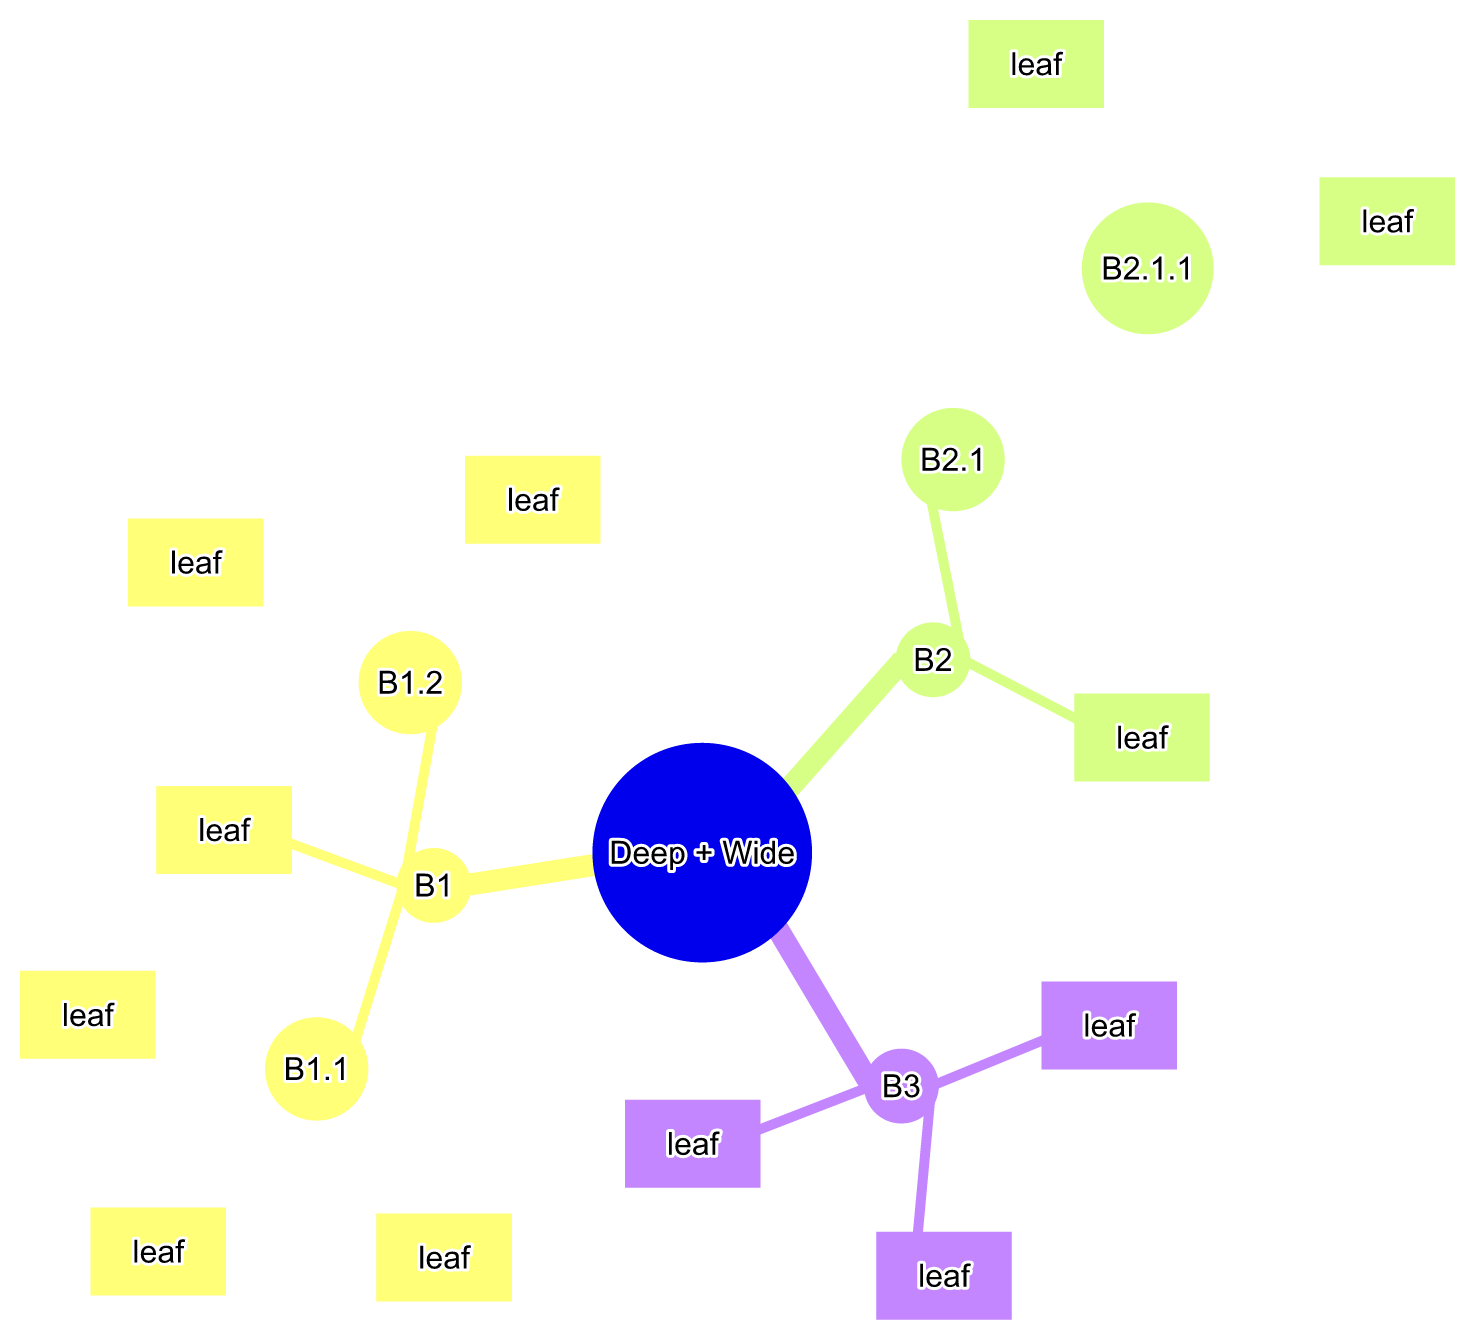
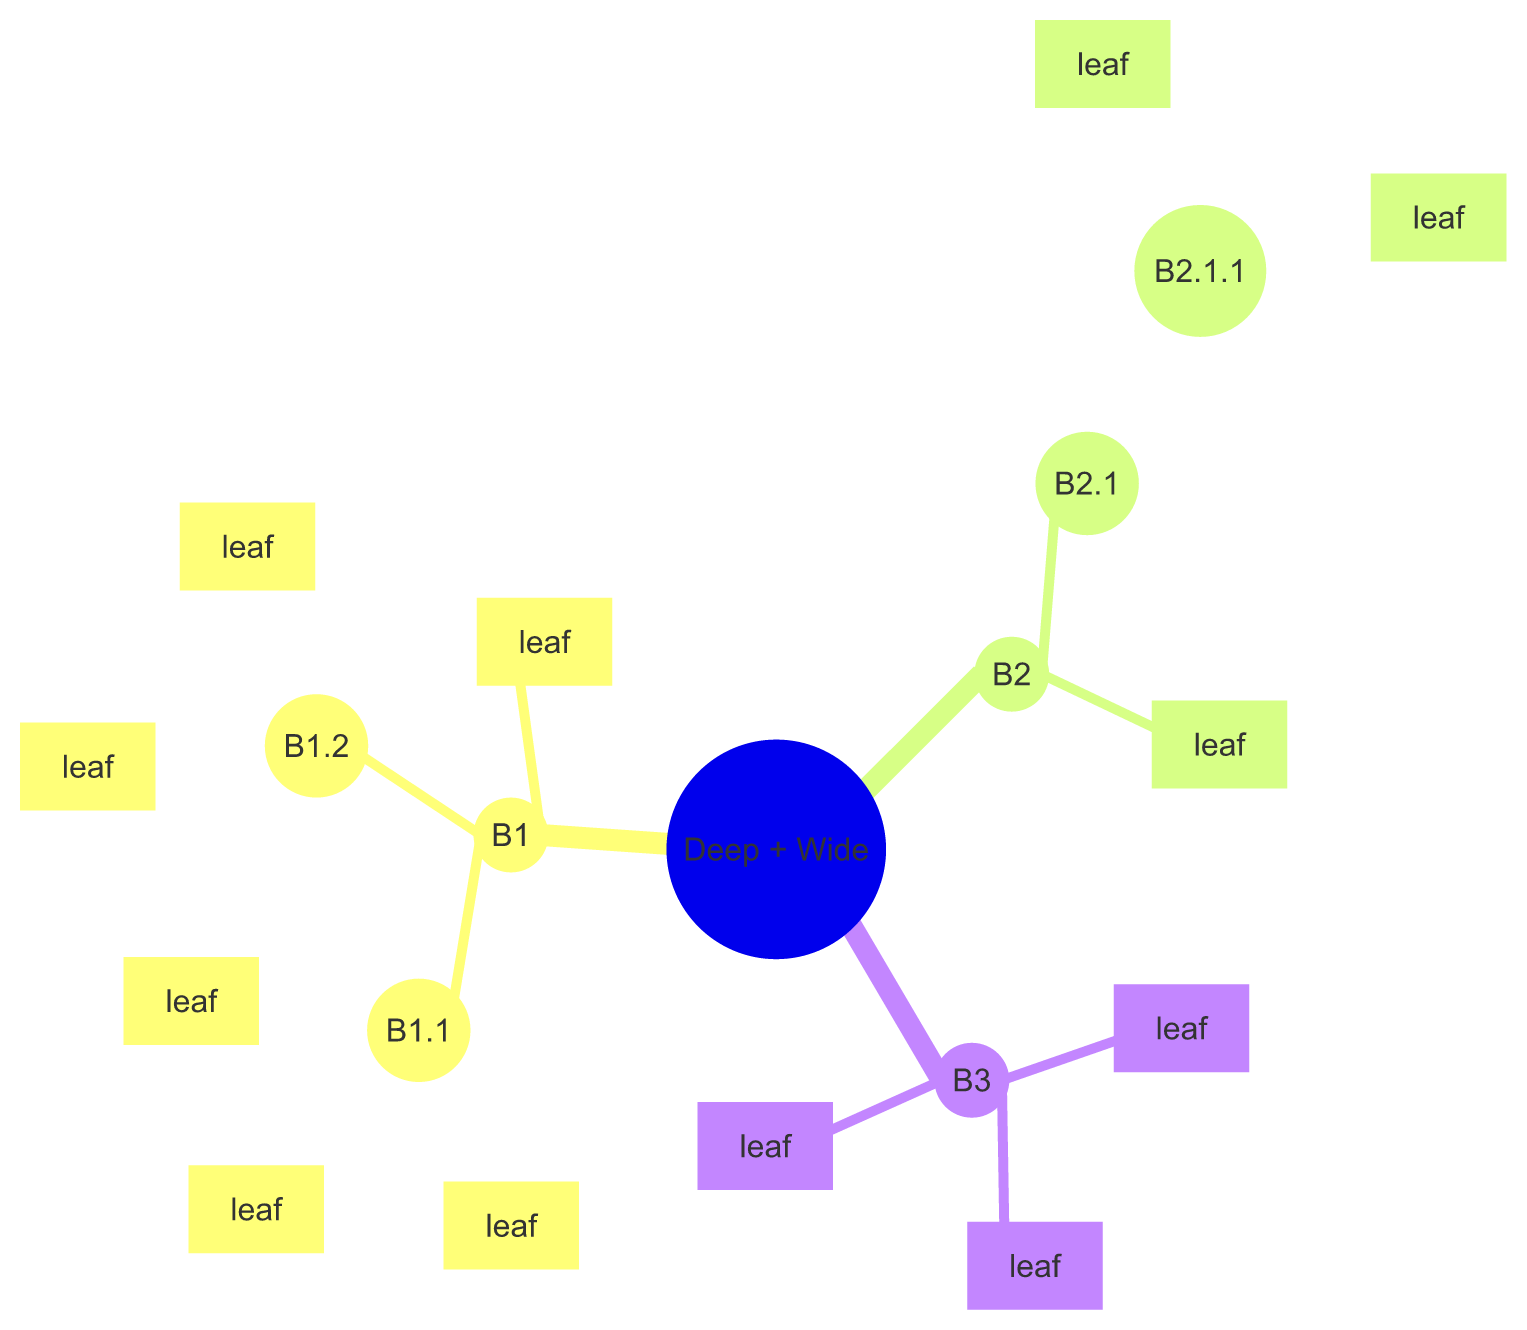
docs: refresh README showcase

diff --git a/README.md b/README.md
@@ -178,7 +178,7 @@ Each example links to an existing fixture so the README stays honest and reprodu
 ### Architecture (many groups + sparse services)
 
 <p align="center">
-  <img width="900" alt="Architecture diagram: many groups + sparse services" src="https://raw.githubusercontent.com/Latias94/merman/v0.1.0/docs/assets/showcase/architecture.png" />
+  <img width="900" alt="Architecture diagram: many groups + sparse services" src="https://raw.githubusercontent.com/Latias94/merman/main/docs/assets/showcase/architecture.png" />
 </p>
 
 Fixture: [`fixtures/architecture/stress_architecture_batch4_many_groups_sparse_services_069.mmd`](fixtures/architecture/stress_architecture_batch4_many_groups_sparse_services_069.mmd)
@@ -210,7 +210,7 @@ c:R -- L:d
 ### Mindmap (line breaks in labels)
 
 <p align="center">
-  <img width="900" alt="Mindmap diagram: label line break variants" src="https://raw.githubusercontent.com/Latias94/merman/v0.1.0/docs/assets/showcase/mindmap.png" />
+  <img width="900" alt="Mindmap diagram: label line break variants" src="https://raw.githubusercontent.com/Latias94/merman/main/docs/assets/showcase/mindmap.png" />
 </p>
 
 Fixture: [`fixtures/mindmap/stress_mindmap_br_variants_031.mmd`](fixtures/mindmap/stress_mindmap_br_variants_031.mmd)
@@ -234,7 +234,7 @@ mindmap
 ### Sankey (dense shared nodes)
 
 <p align="center">
-  <img width="900" alt="Sankey diagram: dense shared nodes" src="https://raw.githubusercontent.com/Latias94/merman/v0.1.0/docs/assets/showcase/sankey.png" />
+  <img width="900" alt="Sankey diagram: dense shared nodes" src="https://raw.githubusercontent.com/Latias94/merman/main/docs/assets/showcase/sankey.png" />
 </p>
 
 Fixture: [`fixtures/sankey/stress_sankey_batch1_dense_shared_nodes_007.mmd`](fixtures/sankey/stress_sankey_batch1_dense_shared_nodes_007.mmd)
@@ -269,7 +269,7 @@ Z,Loss,2
 ### Gantt (date math + excludes)
 
 <p align="center">
-  <img width="900" alt="Gantt diagram: date math + excludes" src="https://raw.githubusercontent.com/Latias94/merman/v0.1.0/docs/assets/showcase/gantt.png" />
+  <img width="900" alt="Gantt diagram: date math + excludes" src="https://raw.githubusercontent.com/Latias94/merman/main/docs/assets/showcase/gantt.png" />
 </p>
 
 Fixture: [`fixtures/gantt/upstream_docs_gantt_syntax_002.mmd`](fixtures/gantt/upstream_docs_gantt_syntax_002.mmd)
@@ -316,7 +316,7 @@ gantt
 
 | Architecture (dense services + cross edges) | Mindmap (deep + wide) |
 | --- | --- |
-| <img width="430" alt="Architecture diagram: dense services + cross edges" src="https://raw.githubusercontent.com/Latias94/merman/v0.1.0/docs/assets/showcase/architecture_dense.png" /><br/>Fixture: [`fixtures/architecture/stress_architecture_batch5_dense_group_services_073.mmd`](fixtures/architecture/stress_architecture_batch5_dense_group_services_073.mmd) | <img width="430" alt="Mindmap diagram: deep + wide tree" src="https://raw.githubusercontent.com/Latias94/merman/v0.1.0/docs/assets/showcase/mindmap_deep_wide.png" /><br/>Fixture: [`fixtures/mindmap/stress_deep_wide_combo_011.mmd`](fixtures/mindmap/stress_deep_wide_combo_011.mmd) |
+| <img width="430" alt="Architecture diagram: dense services + cross edges" src="https://raw.githubusercontent.com/Latias94/merman/main/docs/assets/showcase/architecture_dense.png" /><br/>Fixture: [`fixtures/architecture/stress_architecture_batch5_dense_group_services_073.mmd`](fixtures/architecture/stress_architecture_batch5_dense_group_services_073.mmd) | <img width="430" alt="Mindmap diagram: deep + wide tree" src="https://raw.githubusercontent.com/Latias94/merman/main/docs/assets/showcase/mindmap_deep_wide.png" /><br/>Fixture: [`fixtures/mindmap/stress_deep_wide_combo_011.mmd`](fixtures/mindmap/stress_deep_wide_combo_011.mmd) |
 
 ## Quality gates
 

diff --git a/CHANGELOG.md b/CHANGELOG.md
@@ -8,7 +8,7 @@ The format is based on *Keep a Changelog*, and this project adheres to *Semantic
 
 ### Added
 
-- Imported additional upstream Cypress fixtures (ER, state, class) to expand SVG parity coverage.
+- Imported additional upstream fixtures from Cypress and package tests (requirement, gantt, ER, flowchart, sequence, state, class) to expand SVG parity coverage.
 
 ### Fixed
 
@@ -17,6 +17,11 @@ The format is based on *Keep a Changelog*, and this project adheres to *Semantic
 - Aligned C4 `sprite` rendering with upstream Mermaid: only `person`/`external_person` emit `<image>` sprites.
 - Reduced churn during `import-upstream-docs --with-baselines` by skipping blank-info code fences that lack an explicit Mermaid diagram directive (e.g. `flowchart` / `graph`).
 - Reduced churn during `import-upstream-cypress --with-baselines` by deferring out-of-scope class fixtures (`htmlLabels=false`, `layout=elk`, `look!=classic`) under `fixtures/_deferred/`.
+- Improved `import-upstream-pkg-tests` Mermaid source extraction to handle `"..."` / `'...'` literals and template strings with `${...}` interpolation.
+
+### Changed
+
+- Refreshed README showcase renders after parity updates (mindmap examples).
 
 ## [0.1.0] - 2026-02-22
 
